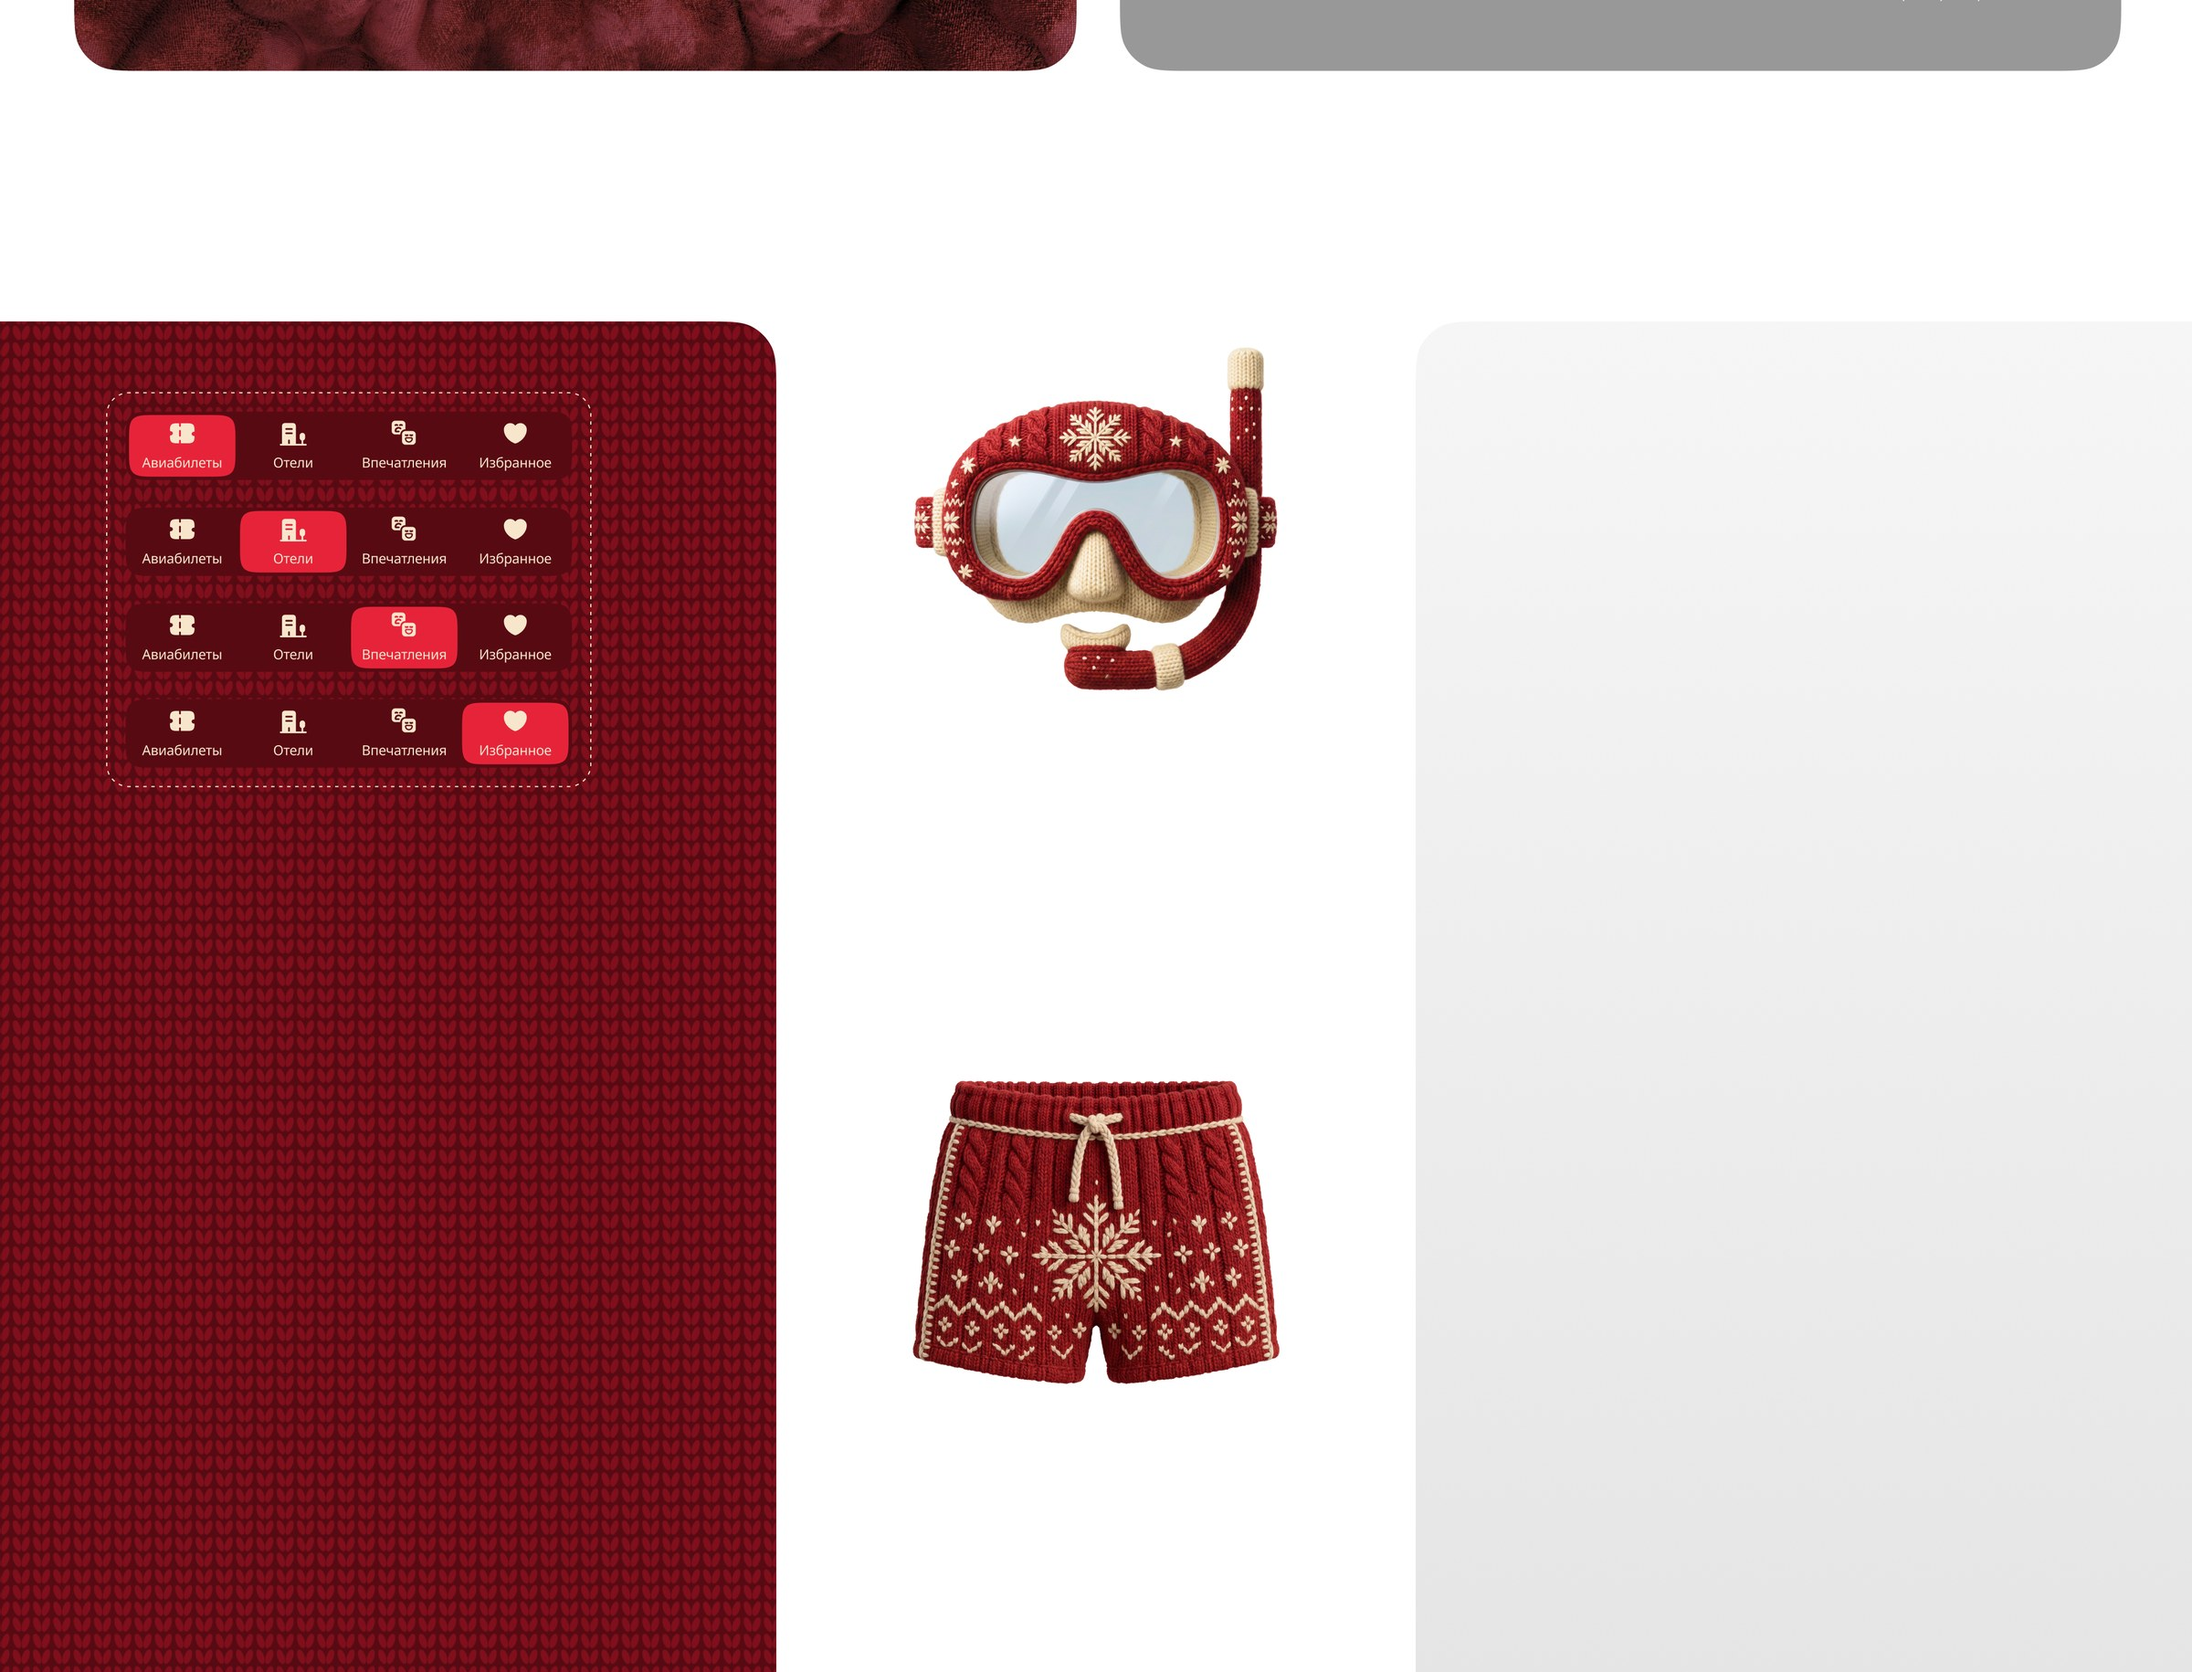
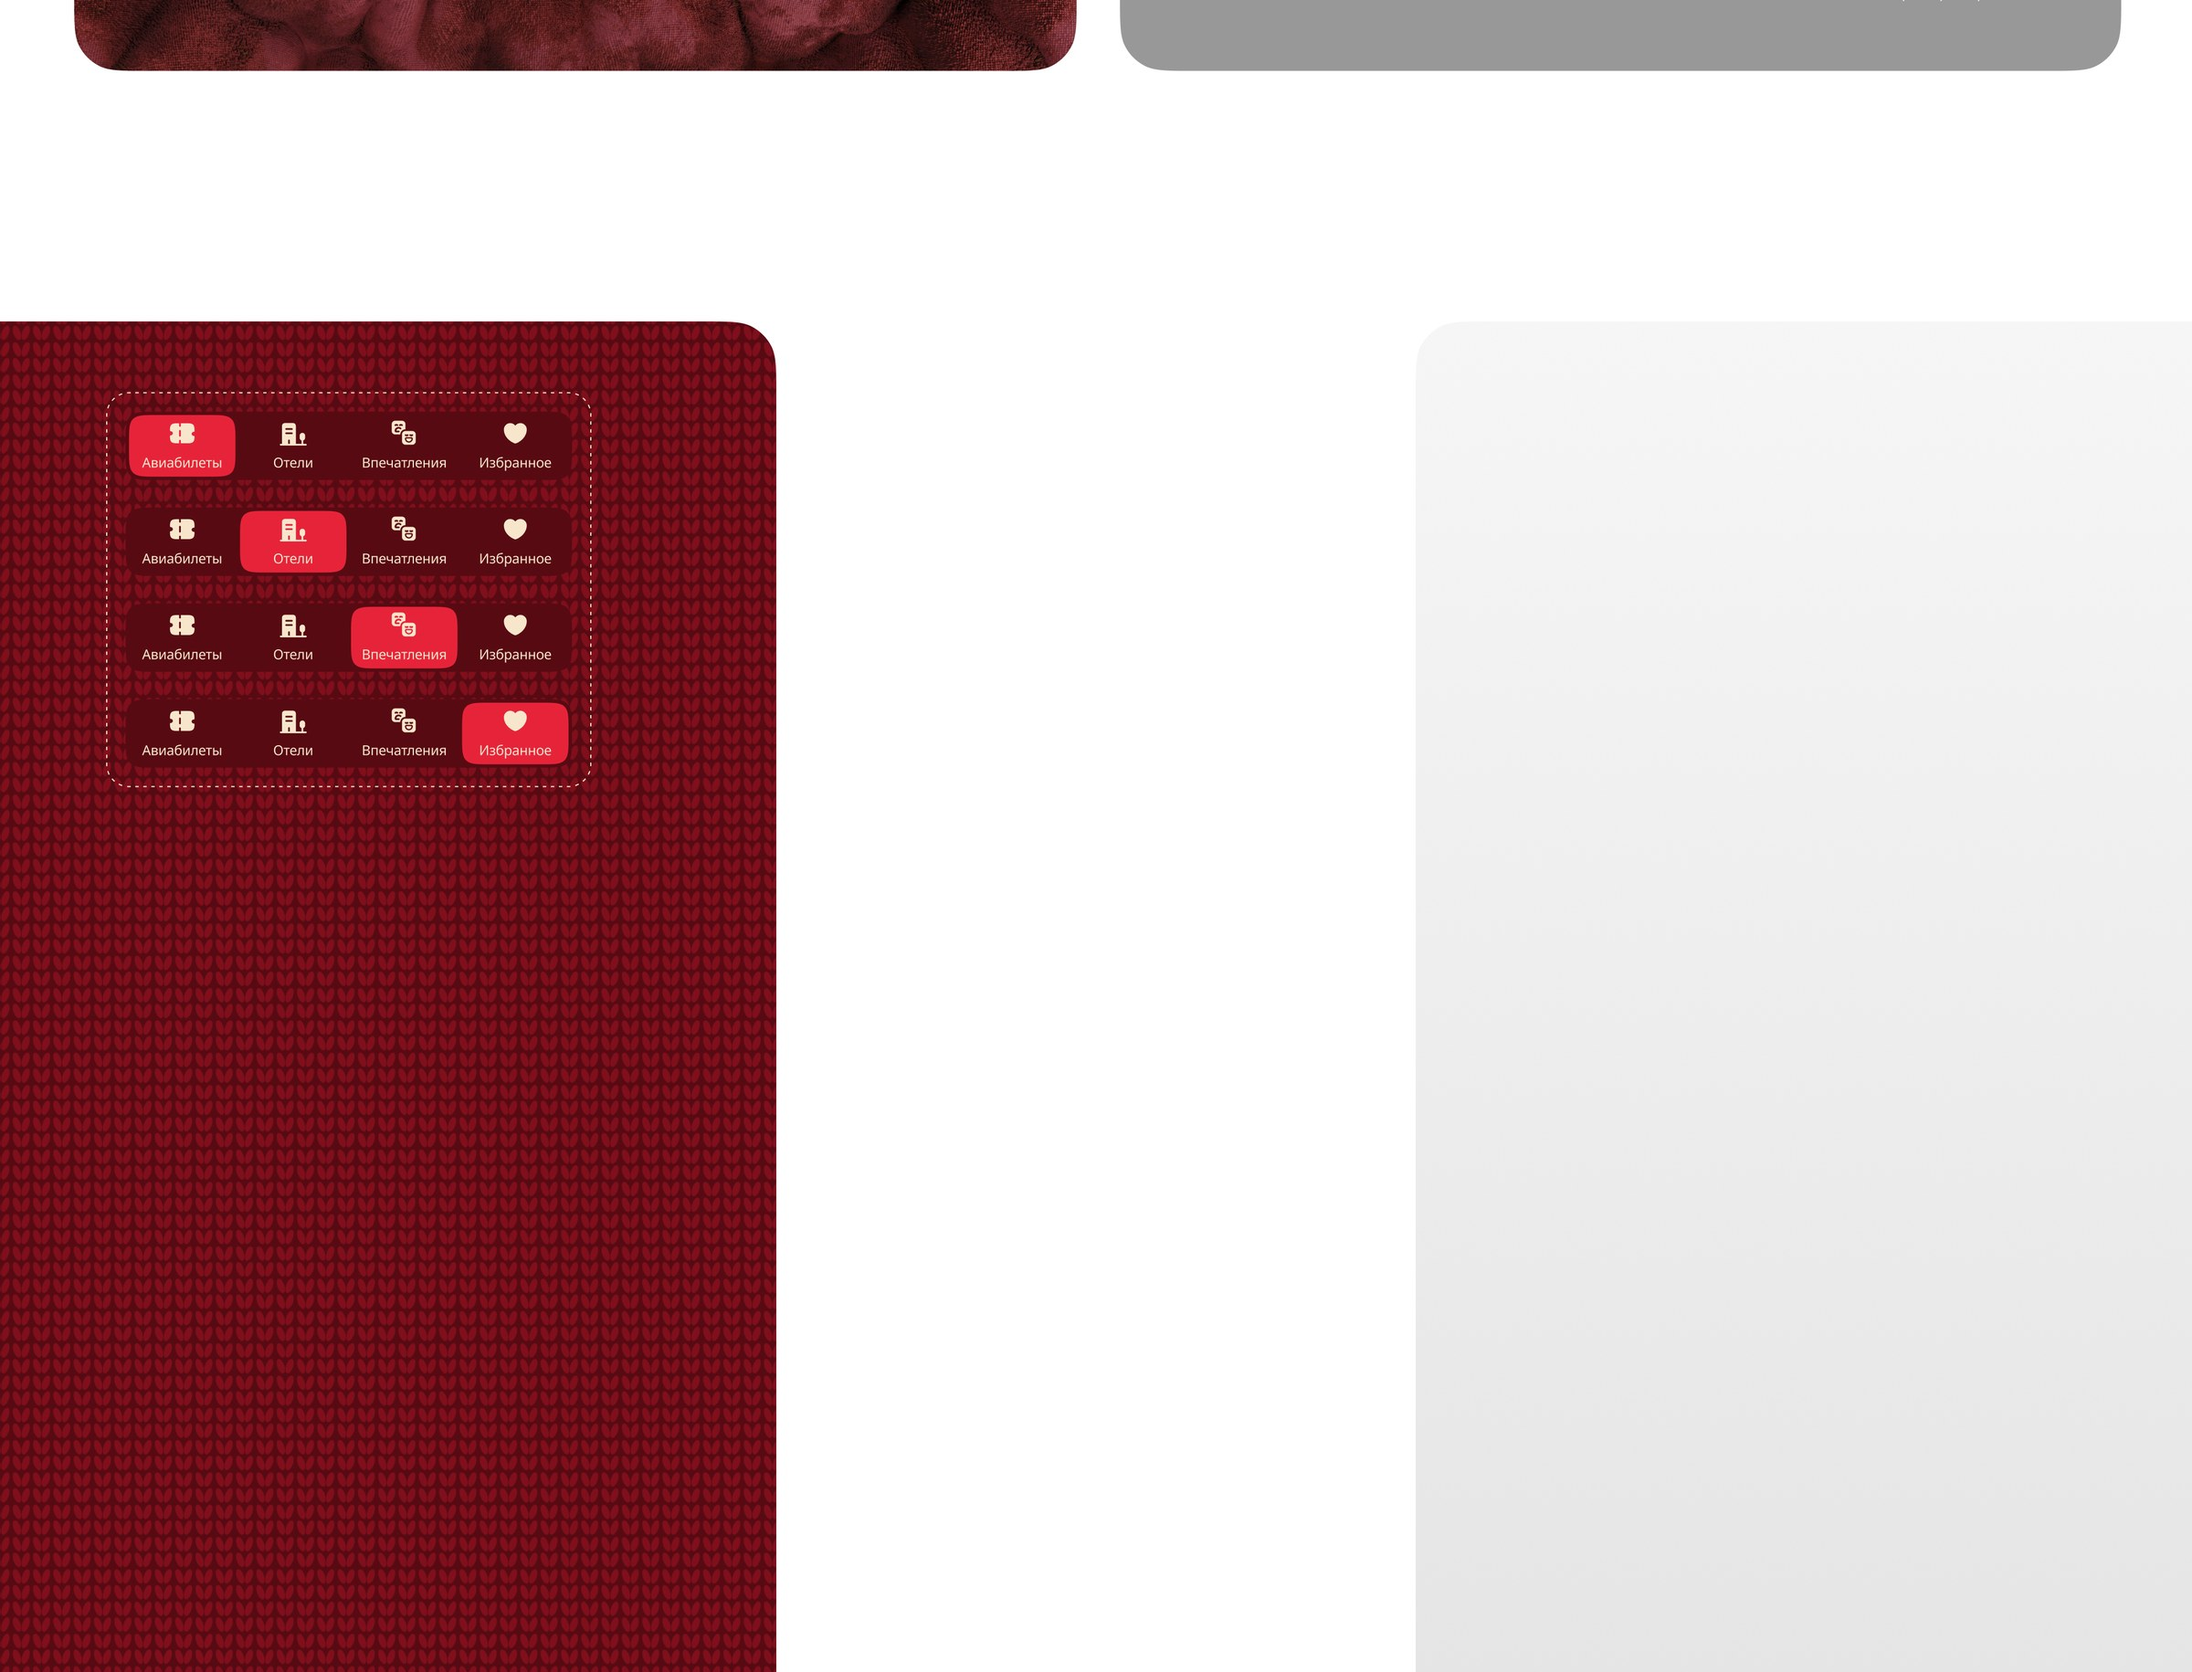
Add floating product animation to Тёплые страны (not deployed)
Export the 3 center-column products (mask/trunks/fins, Figma 3626-113111)
as transparent PNGs and re-slice the bands from a product-free export, so
the products float as overlays. Top and bottom gently converge toward the
center item in a smooth looping 'hover' effect; positions mapped from the
1920x13188 layout and recomputed on resize. Held local; not pushed.

Changed region(s): [[0.4062, 0.6226, 0.5938, 0.8405], [0.4062, 0.1868, 0.5938, 0.4358]]

diff --git a/case.js b/case.js
@@ -381,8 +381,20 @@
     "</div>";
   }
 
+  // Парящие объекты поверх ленты (data.floats): собираем картинки с координатами макета
+  function floatItemsHtml(f) {
+    return f.items
+      .map(function (it) {
+        return '<img class="wfloat__item wfloat__item--' + it.role + '" src="' + it.src +
+          '" alt="" aria-hidden="true" loading="lazy" draggable="false"' +
+          ' data-fx="' + it.x + '" data-fy="' + it.y + '" data-fw="' + it.w +
+          '" data-slw="' + f.slideW + '" data-slh="' + f.slideH + '" />';
+      })
+      .join("");
+  }
+
   function blocksHtml(blocks) {
-    return blocks
+    var html = blocks
       .map(function (b) {
         if (b.successModal) return hsSuccessHtml();
         if (b.heading) return '<h2 class="tl__h2 tl__h2--solo reveal">' + b.heading + "</h2>";
@@ -630,6 +642,11 @@
         return "";
       })
       .join("");
+    // Если у кейса есть парящие объекты — оборачиваем ленту в сцену и кладём их поверх
+    if (data.floats && blocks === data.blocks) {
+      html = '<div class="wfloat" data-wfloat>' + html + floatItemsHtml(data.floats) + "</div>";
+    }
+    return html;
   }
 
   // Hero-визуал (обложка / девайс-мокап / анимация) — общий для обычного и таб-рендера
@@ -859,5 +876,35 @@
         } catch (e) { location.hash = id; }
       });
     });
+  }
+
+  // Парящие объекты: позиционируем поверх full-bleed ленты по координатам макета.
+  // Левая/верхняя привязка — в px относительно .wfloat (как и у полос), поэтому
+  // всё точно совпадает при любой ширине экрана; само «парение» — CSS-трансформом.
+  var wfloat = document.querySelector("[data-wfloat]");
+  if (wfloat) {
+    var fitems = wfloat.querySelectorAll(".wfloat__item");
+    var fbands = wfloat.querySelectorAll(".case__bleed-img");
+    var placeFloats = function () {
+      if (!fbands.length) return;
+      var first = fbands[0], last = fbands[fbands.length - 1];
+      var stackLeft = first.offsetLeft;
+      var stackWidth = first.offsetWidth;
+      var stackTop = first.offsetTop;
+      var stackHeight = last.offsetTop + last.offsetHeight - first.offsetTop;
+      Array.prototype.forEach.call(fitems, function (el) {
+        var fx = +el.getAttribute("data-fx"), fy = +el.getAttribute("data-fy"), fw = +el.getAttribute("data-fw");
+        var slw = +el.getAttribute("data-slw"), slh = +el.getAttribute("data-slh");
+        el.style.left = stackLeft + (fx / slw) * stackWidth + "px";
+        el.style.top = stackTop + (fy / slh) * stackHeight + "px";
+        el.style.width = (fw / slw) * stackWidth + "px";
+      });
+    };
+    placeFloats();
+    Array.prototype.forEach.call(fbands, function (b) {
+      if (!b.complete) b.addEventListener("load", placeFloats, { once: true });
+    });
+    window.addEventListener("resize", placeFloats);
+    window.addEventListener("load", placeFloats);
   }
 })();

diff --git a/styles.css b/styles.css
@@ -815,6 +815,40 @@ textarea:focus-visible {
   border-bottom-right-radius: 0;
 }
 
+/* Сцена с парящими объектами поверх full-bleed ленты (кейс «Тёплые страны») */
+.wfloat { position: relative; }
+.wfloat__item {
+  position: absolute;
+  z-index: 2;
+  height: auto;
+  pointer-events: none;
+  user-select: none;
+  will-change: transform;
+  /* лёгкая тень для «отрыва» от фона */
+  filter: drop-shadow(0 18px 28px rgba(60, 10, 10, 0.16));
+}
+/* Парение: верхний и нижний плавно стягиваются к центральному и обратно,
+   центральный мягко покачивается в противофазе. Трансформ в % — относительно
+   размера самого объекта, поэтому амплитуда масштабируется под экран. */
+.wfloat__item--top { animation: wfloat-top 6s ease-in-out infinite; }
+.wfloat__item--bot { animation: wfloat-bot 6s ease-in-out infinite; }
+.wfloat__item--mid { animation: wfloat-mid 6.6s ease-in-out infinite; }
+@keyframes wfloat-top {
+  0%, 100% { transform: translateY(0); }
+  50%      { transform: translateY(19%); }
+}
+@keyframes wfloat-bot {
+  0%, 100% { transform: translateY(0); }
+  50%      { transform: translateY(-19%); }
+}
+@keyframes wfloat-mid {
+  0%, 100% { transform: translateY(-3.5%); }
+  50%      { transform: translateY(3.5%); }
+}
+@media (prefers-reduced-motion: reduce) {
+  .wfloat__item { animation: none !important; }
+}
+
 /* Hero с устройством: фон-мокап + видео в области экрана */
 .hero-device { background: transparent; container-type: inline-size; }
 .hero-device__bg { position: absolute; inset: 0; }

diff --git a/projects.js b/projects.js
@@ -242,17 +242,29 @@ window.PROJECTS = {
     tone: 2,
     hideHero: true,
     // Полный кейс один в один по макету Figma node 3626-111446 (секции full-bleed)
+    // Фон экспортирован без трёх продуктов (маска/плавки/ласты) — они вынесены
+    // в floats и парят поверх ленты: верхний и нижний плавно стягиваются к центру.
     blocks: [
-      { bleed: "assets/warm-1.jpg?v=4" },
-      { bleed: "assets/warm-2.jpg?v=4" },
-      { bleed: "assets/warm-3.jpg?v=4" },
-      { bleed: "assets/warm-4.jpg?v=4" },
-      { bleed: "assets/warm-5.jpg?v=4" },
-      { bleed: "assets/warm-6.jpg?v=4" },
-      { bleed: "assets/warm-7.jpg?v=4" },
-      { bleed: "assets/warm-8.jpg?v=4" },
-      { bleed: "assets/warm-9.jpg?v=4" },
+      { bleed: "assets/warm-1.jpg?v=5" },
+      { bleed: "assets/warm-2.jpg?v=5" },
+      { bleed: "assets/warm-3.jpg?v=5" },
+      { bleed: "assets/warm-4.jpg?v=5" },
+      { bleed: "assets/warm-5.jpg?v=5" },
+      { bleed: "assets/warm-6.jpg?v=5" },
+      { bleed: "assets/warm-7.jpg?v=5" },
+      { bleed: "assets/warm-8.jpg?v=5" },
+      { bleed: "assets/warm-9.jpg?v=5" },
     ],
+    // Парящие объекты (координаты в системе макета 1920×13188, node 3626-113111)
+    floats: {
+      slideW: 1920,
+      slideH: 13188,
+      items: [
+        { src: "assets/warm-mask.png?v=1", x: 760, y: 3184, w: 400, role: "top" },
+        { src: "assets/warm-trunks.png?v=1", x: 773, y: 3821, w: 374, role: "mid" },
+        { src: "assets/warm-fins.png?v=1", x: 760, y: 4432, w: 400, role: "bot" },
+      ],
+    },
   },
 
   "stemio-brand": {

diff --git a/case.html b/case.html
@@ -12,7 +12,7 @@
   <link href="https://fonts.googleapis.com/css2?family=Geist:wght@400..700&family=Geist+Mono:wght@400;500&display=swap" rel="stylesheet" />
   <!-- Шрифты страницы кейса — как в референсе pamidordesign.co/work/rise -->
   <link href="https://fonts.googleapis.com/css2?family=Archivo:wght@500;600&family=Funnel+Display:wght@400;500;600&family=Space+Grotesk:wght@500;600;700&display=swap" rel="stylesheet" />
-  <link rel="stylesheet" href="styles.css?v=166" />
+  <link rel="stylesheet" href="styles.css?v=167" />
 </head>
 <body class="is-case">
   <a class="skip-link" href="#case-root">К содержанию</a>
@@ -46,8 +46,8 @@
   </button>
 
   <script src="https://cdn.jsdelivr.net/npm/lenis@1.1.14/dist/lenis.min.js"></script>
-  <script src="projects.js?v=141"></script>
-  <script src="case.js?v=67"></script>
+  <script src="projects.js?v=142"></script>
+  <script src="case.js?v=68"></script>
   <script src="script.js?v=23"></script>
 </body>
 </html>
